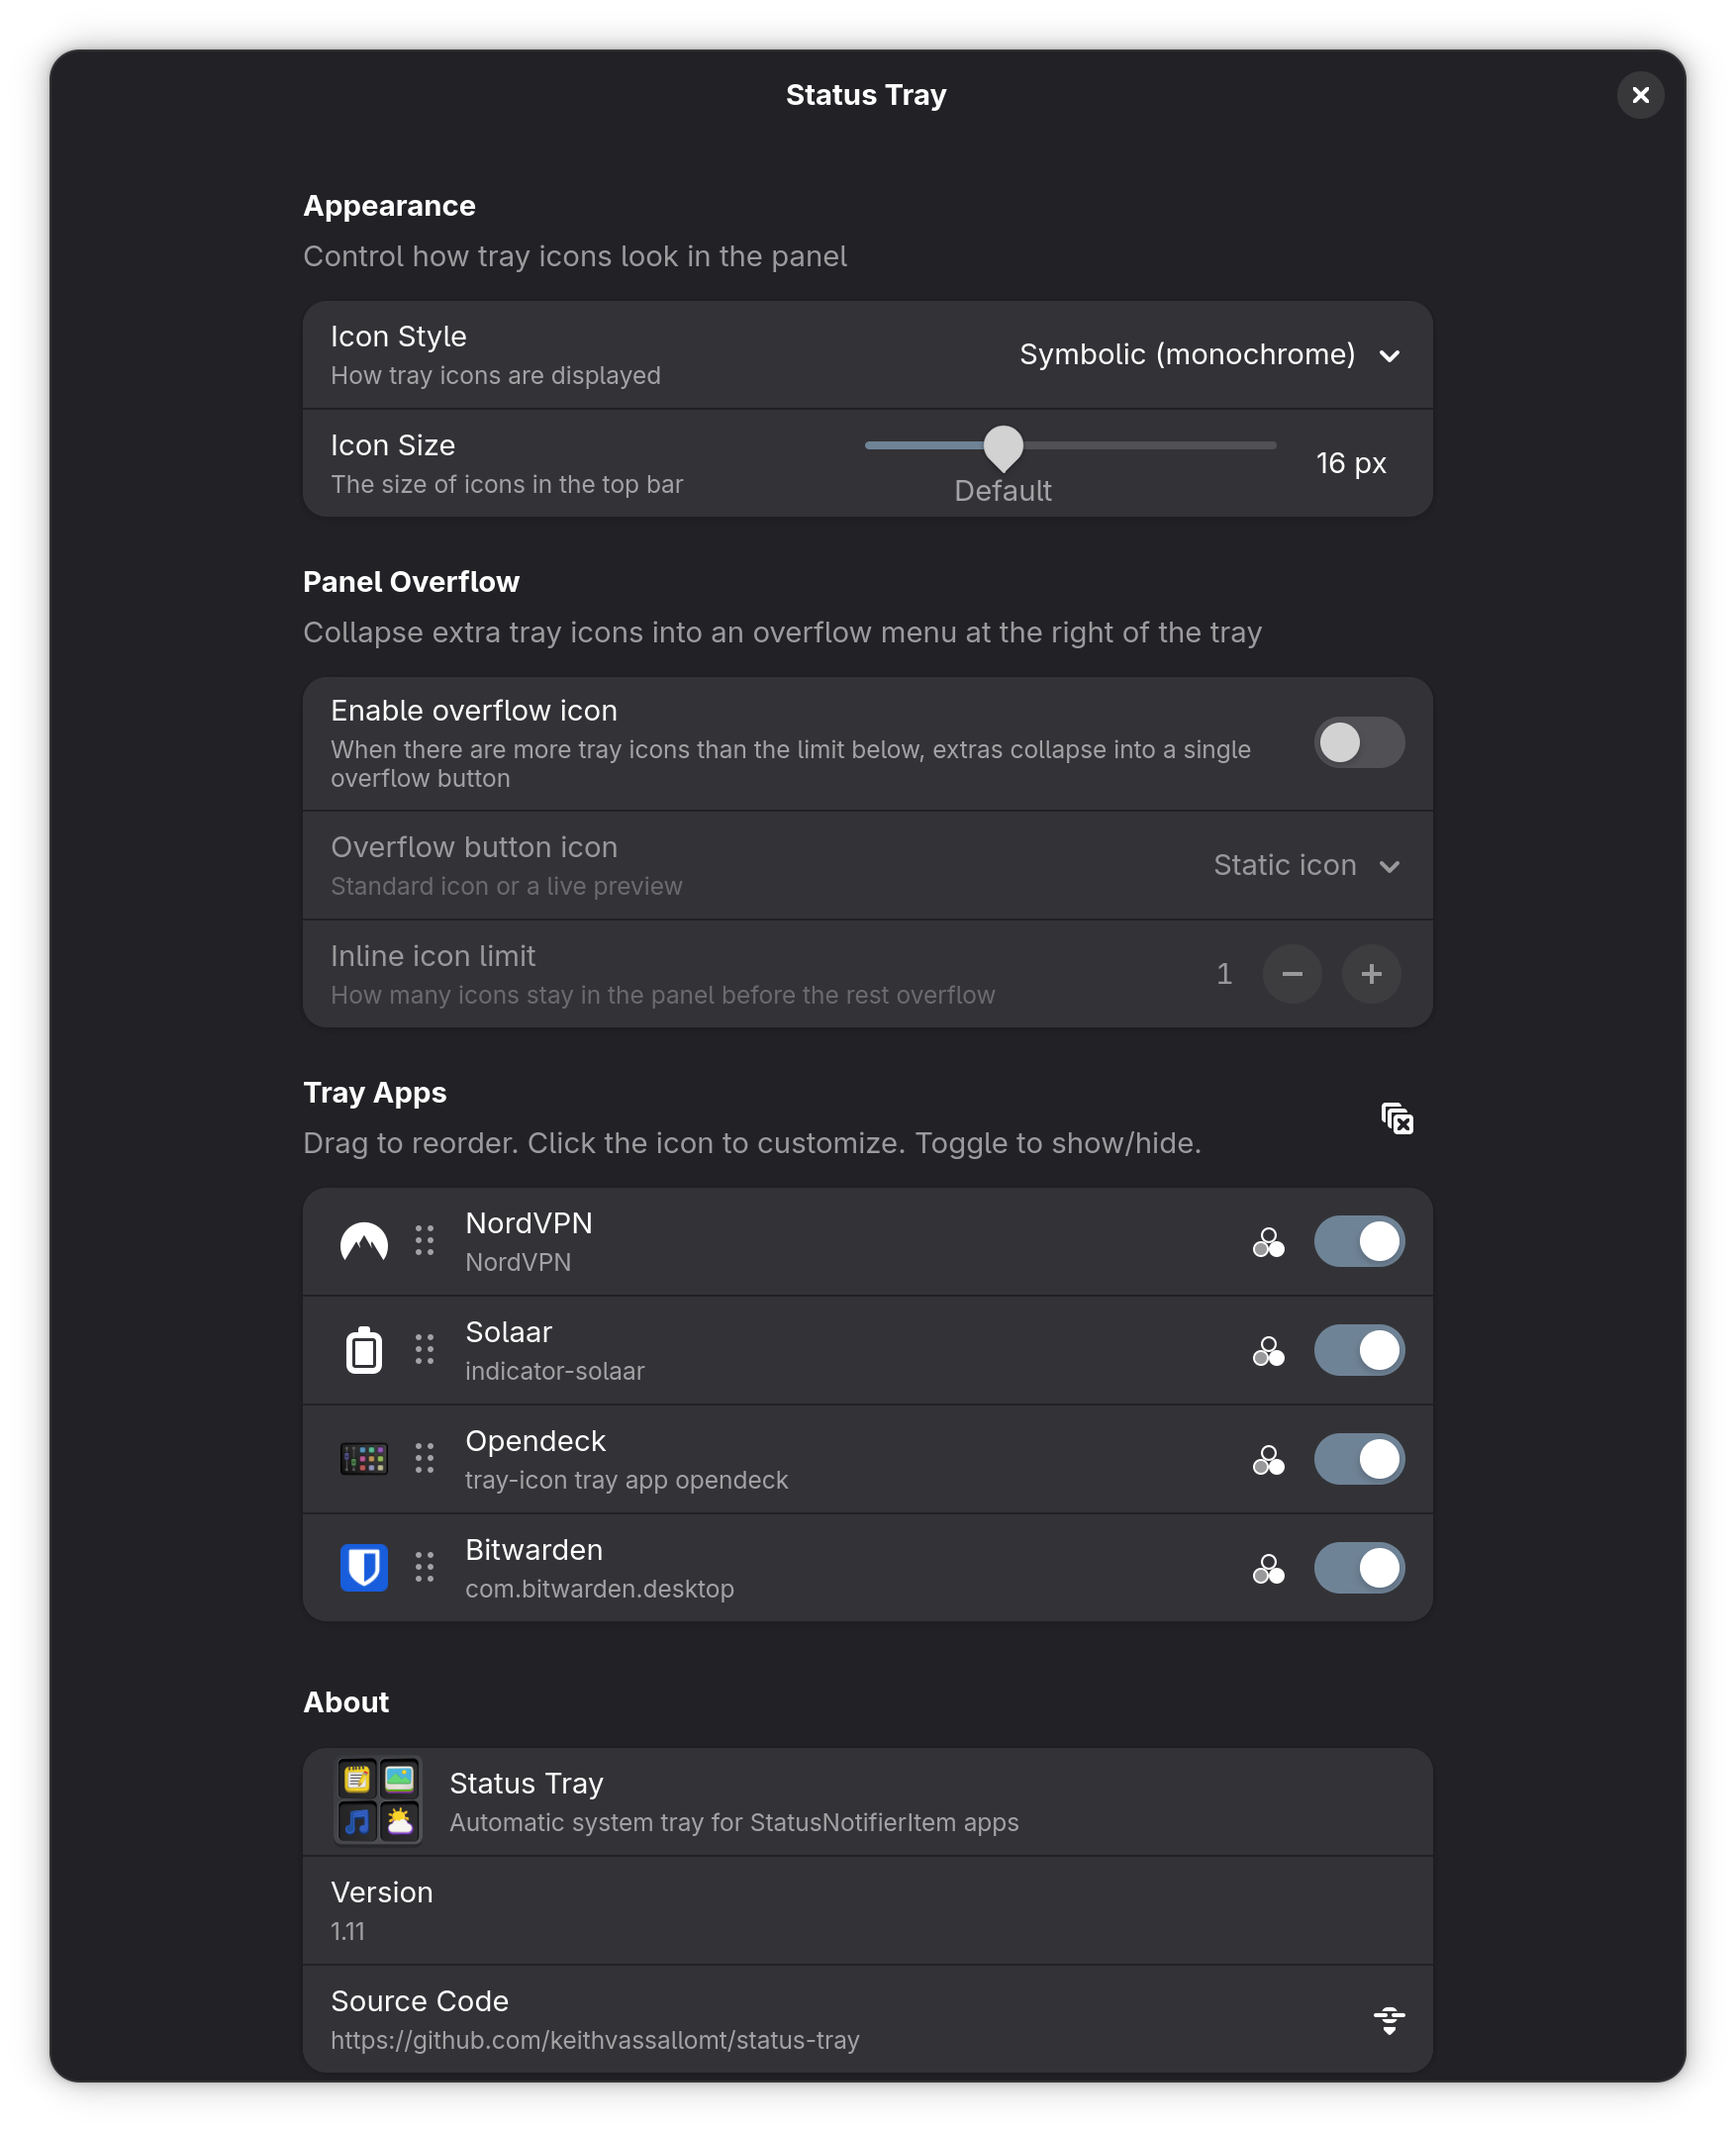
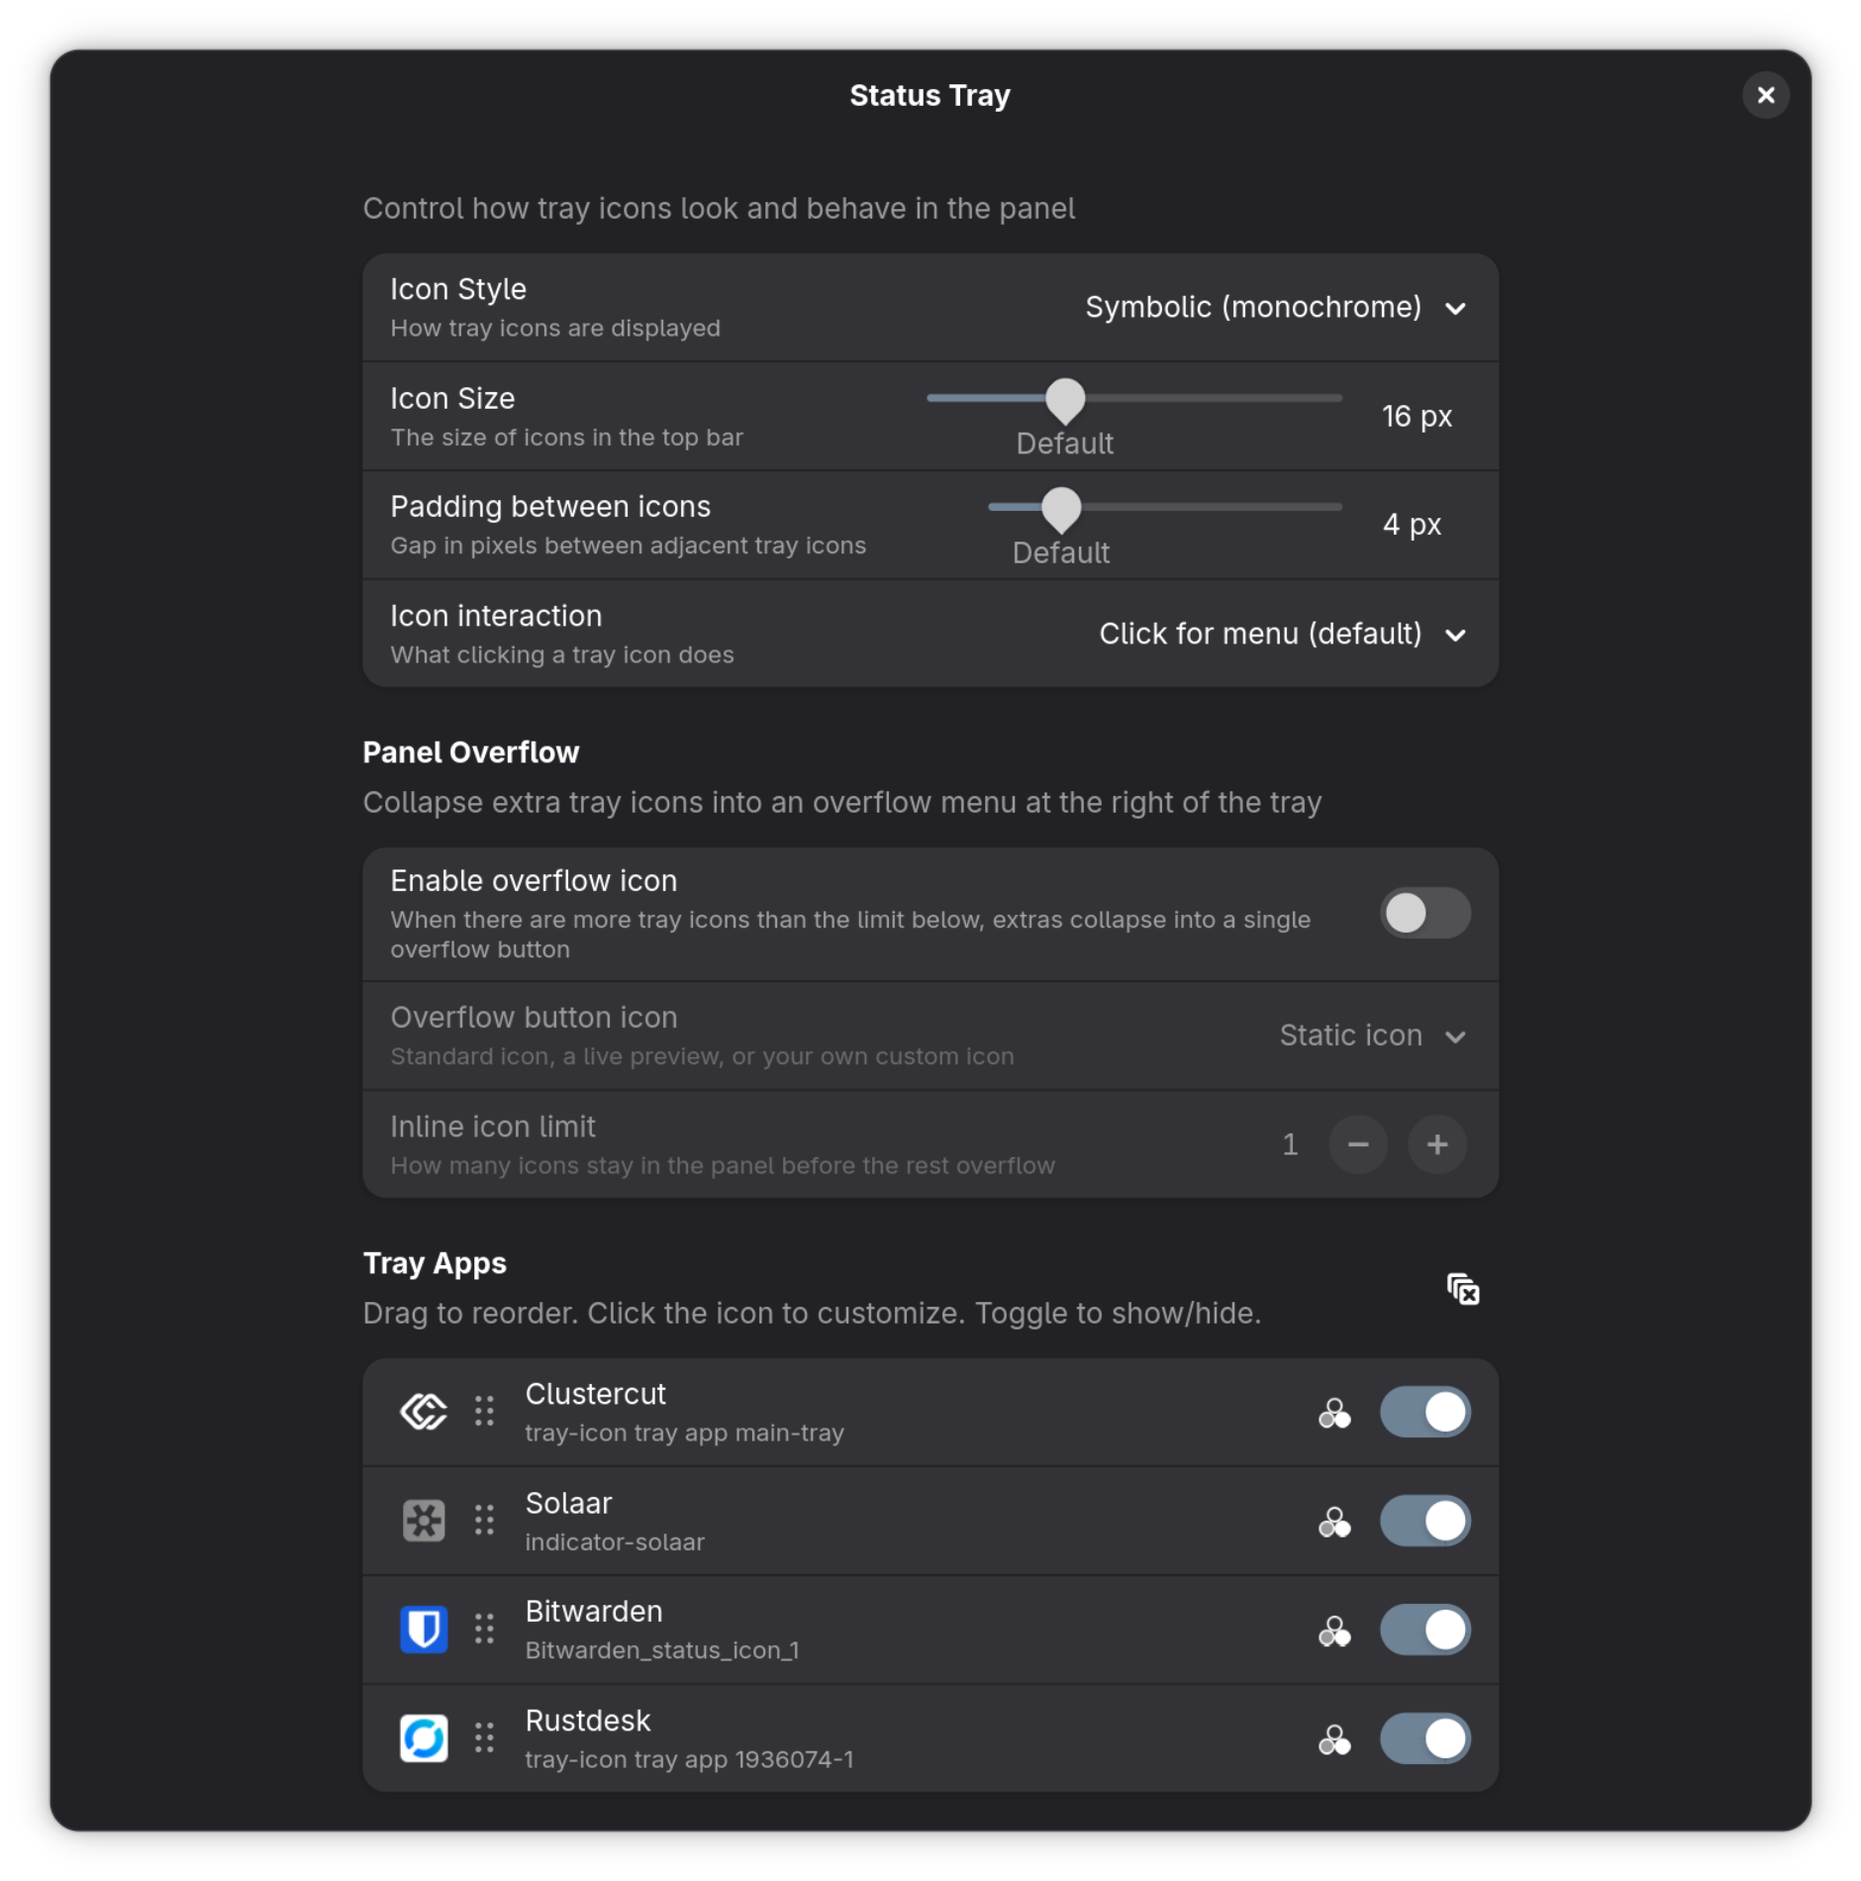
Updated docs and screenshot for 1.14

diff --git a/docs/customisation.md b/docs/customisation.md
@@ -27,6 +27,24 @@ The size of the status icons in the GNOME top panel can be customised via the ma
 
 Sizes range from 14px (smallest) to 20px (largest). The default size is 16px. 
 
+## Padding Between Icons
+You can adjust the gap between adjacent status icons in the panel using the **Padding between icons** slider.
+
+The value is the total gap, in pixels, between two neighbouring icons, and ranges from 0px (icons sit flush together) to 20px. The default is 4px. Changes apply immediately.
+
+## Icon Interaction
+The **Icon interaction** setting controls what happens when you click a status icon:
+
+- **Click for menu** (default): a left or right click opens the application's menu.
+- **Left click to open, Right click for menu**: a left click opens the application's window, while a right click opens its menu.
+- **Double-click to open, Click for menu**: a double click opens the application's window, while a single click opens its menu (after a brief delay).
+
+In every mode, a right click opens the menu and a middle click triggers the application's secondary action, where the app supports one.
+
+::: tip
+Some applications don't provide an action to open their window from the tray icon. For those apps, Status Tray falls back to showing the menu.
+:::
+
 ## Fallback Icons
 
 Sometimes, you may want to use the default icon provided by an app, but that icon might fail to load in certain situatons. This typically happens when an icon is missing on your system, or when an app doesn't properly set the icon name. In this case, you'll want to enable **Use as Fallback Only**. This will use the default icon provided by the app, but if that icon fails to load, it will fall back to the icon you've chosen here.
